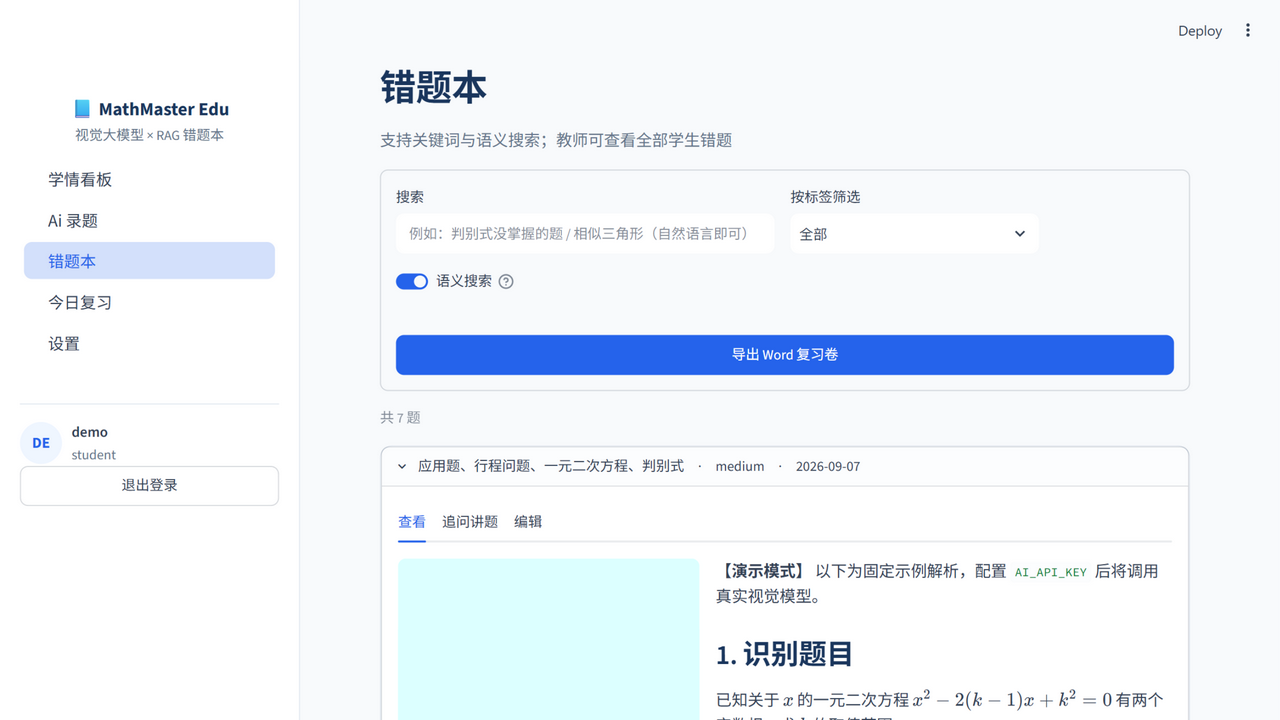
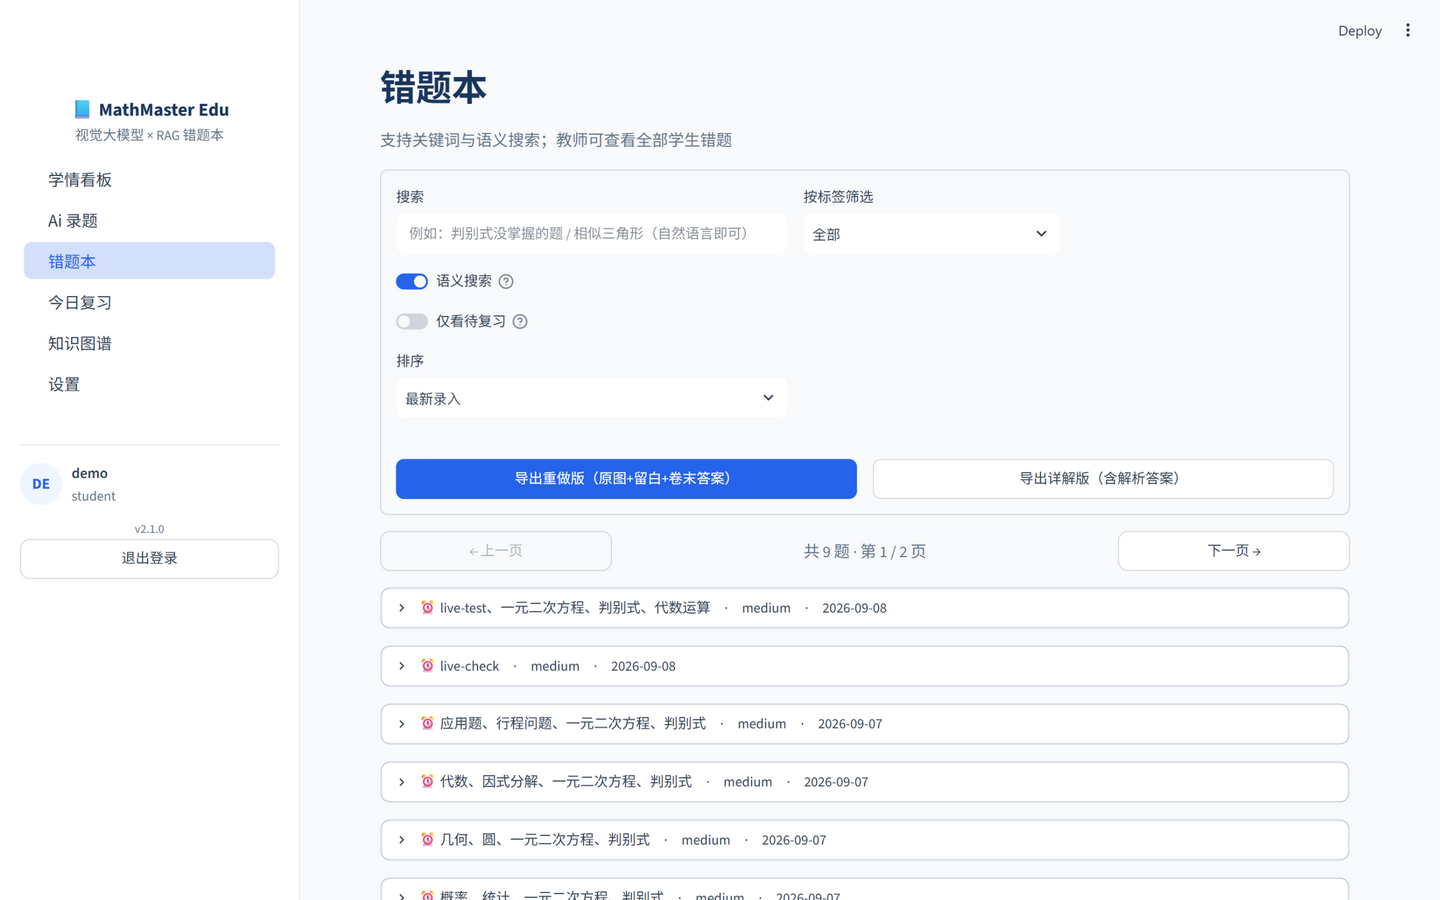
refactor(frontend): migrate 37 deprecated use_container_width usages to width API

diff --git a/frontend/pages/notebook.py b/frontend/pages/notebook.py
@@ -118,7 +118,7 @@ def render_notebook_page(user: dict) -> None:
                     data=redo_io,
                     file_name=f"错题复习卷_重做版_{dt.date.today():%Y%m%d}.docx",
                     mime="application/vnd.openxmlformats-officedocument.wordprocessingml.document",
-                    use_container_width=True,
+                    width="stretch",
                     type="primary",
                     help="只含题目与答题留白，卷末附参考答案，适合打印重做",
                 )
@@ -129,7 +129,7 @@ def render_notebook_page(user: dict) -> None:
                     data=detail_io,
                     file_name=f"错题详解卷_{dt.date.today():%Y%m%d}.docx",
                     mime="application/vnd.openxmlformats-officedocument.wordprocessingml.document",
-                    use_container_width=True,
+                    width="stretch",
                     help="含完整解析、答案与变式练习",
                 )
 
@@ -145,10 +145,10 @@ def render_notebook_page(user: dict) -> None:
         )
         c1, c2 = st.columns(2)
         with c1:
-            if st.button("📸 去 AI 录题", use_container_width=True):
+            if st.button("📸 去 AI 录题", width="stretch"):
                 go_to("tutor")
         with c2:
-            if st.button("清除筛选条件", use_container_width=True):
+            if st.button("清除筛选条件", width="stretch"):
                 st.session_state.pop("notebook_search", None)
                 st.session_state.pop("notebook_tag", None)
                 st.session_state.pop("notebook_page", None)
@@ -167,7 +167,7 @@ def render_notebook_page(user: dict) -> None:
 
     nav_l, nav_c, nav_r = st.columns([1, 2, 1])
     with nav_l:
-        if st.button("← 上一页", disabled=page_index == 0, use_container_width=True):
+        if st.button("← 上一页", disabled=page_index == 0, width="stretch"):
             st.session_state[page_key] -= 1
             st.rerun()
     with nav_c:
@@ -178,7 +178,7 @@ def render_notebook_page(user: dict) -> None:
         )
     with nav_r:
         if st.button(
-            "下一页 →", disabled=page_index >= page_count - 1, use_container_width=True
+            "下一页 →", disabled=page_index >= page_count - 1, width="stretch"
         ):
             st.session_state[page_key] += 1
             st.rerun()
@@ -220,7 +220,7 @@ def render_notebook_page(user: dict) -> None:
                 data=redo_io,
                 file_name="错题精选复习卷_重做版.docx",
                 mime="application/vnd.openxmlformats-officedocument.wordprocessingml.document",
-                use_container_width=True,
+                width="stretch",
             )
             detail_io = generate_word_exam(selected, "错题精选详解卷", mode="detailed")
             st.download_button(
@@ -228,13 +228,13 @@ def render_notebook_page(user: dict) -> None:
                 data=detail_io,
                 file_name="错题精选详解卷.docx",
                 mime="application/vnd.openxmlformats-officedocument.wordprocessingml.document",
-                use_container_width=True,
+                width="stretch",
             )
         with act_col3:
             new_tag = st.text_input(
                 "追加标签", placeholder="例如：月考重点", key="batch_tag"
             )
-            if st.button("为选中追加标签", use_container_width=True) and new_tag.strip():
+            if st.button("为选中追加标签", width="stretch") and new_tag.strip():
                 changed = service.add_tags_to_many(
                     selected_ids, user["id"], sanitize_tags(new_tag)
                 )
@@ -253,7 +253,7 @@ def _render_question_detail(service, q, user) -> None:
         img_col, content_col = st.columns([2, 3])
         with img_col:
             if q.image_path and os.path.exists(q.image_path):
-                st.image(q.image_path, use_container_width=True)
+                st.image(q.image_path, width="stretch")
             else:
                 st.caption("无原图（手动录入）")
             badges = " ".join(f"<span class='mm-badge'>{t}</span>" for t in q.tags)
@@ -280,7 +280,7 @@ def _render_question_detail(service, q, user) -> None:
             _grade_labels = {"again": "😵 忘了", "hard": "😅 勉强", "good": "🙂 记得", "easy": "😎 秒懂"}
             for col, grade in zip(grade_cols, ("again", "hard", "good", "easy"), strict=False):
                 with col:
-                    if st.button(_grade_labels[grade], key=f"nb_grade_{q.id}_{grade}", use_container_width=True):
+                    if st.button(_grade_labels[grade], key=f"nb_grade_{q.id}_{grade}", width="stretch"):
                         updated = service.grade_review(q.id, user["id"], grade)
                         if updated is None:
                             st.toast("只能重测自己的错题", icon="⚠")

diff --git a/frontend/pages/dashboard.py b/frontend/pages/dashboard.py
@@ -58,7 +58,7 @@ def _render_calendar(calendar: dict) -> None:
     )
     fig.update_xaxes(tickangle=0, tickfont=dict(size=9))
     fig.update_yaxes(tickfont=dict(size=9))
-    st.plotly_chart(fig, use_container_width=True, config={"displayModeBar": False})
+    st.plotly_chart(fig, width="stretch", config={"displayModeBar": False})
 
 
 def _render_accuracy_trend(trend: list[dict]) -> None:
@@ -81,7 +81,7 @@ def _render_accuracy_trend(trend: list[dict]) -> None:
         yaxis=dict(range=[0, 105], gridcolor="#e2e8f0"),
         xaxis=dict(showgrid=False),
     )
-    st.plotly_chart(line, use_container_width=True, config={"displayModeBar": False})
+    st.plotly_chart(line, width="stretch", config={"displayModeBar": False})
 
 
 def render_dashboard(user: dict) -> None:
@@ -112,13 +112,13 @@ def render_dashboard(user: dict) -> None:
 
     action_col1, action_col2, action_col3, _ = st.columns([1, 1, 1, 1])
     with action_col1:
-        if st.button("🎬 开始复习", type="primary", use_container_width=True, disabled=stats["due"] == 0):
+        if st.button("🎬 开始复习", type="primary", width="stretch", disabled=stats["due"] == 0):
             go_to("review")
     with action_col2:
-        if st.button("📸 录一道错题", use_container_width=True):
+        if st.button("📸 录一道错题", width="stretch"):
             go_to("tutor")
     with action_col3:
-        if st.button("📒 打开错题本", use_container_width=True):
+        if st.button("📒 打开错题本", width="stretch"):
             go_to("notebook")
 
     st.markdown("<br>", unsafe_allow_html=True)
@@ -149,7 +149,7 @@ def render_dashboard(user: dict) -> None:
             bar_fig.update_yaxes(autorange="reversed")
             event = st.plotly_chart(
                 bar_fig,
-                use_container_width=True,
+                width="stretch",
                 on_select="rerun",
                 key="tag_bar",
                 config={"displayModeBar": False},
@@ -179,7 +179,7 @@ def render_dashboard(user: dict) -> None:
                     """,
                     unsafe_allow_html=True,
                 )
-            if st.button("📚 去错题本复习最薄弱的知识点", use_container_width=True):
+            if st.button("📚 去错题本复习最薄弱的知识点", width="stretch"):
                 go_to("notebook", tag=stats["weak_tags"][0].tag)
         else:
             st.caption("复习几道题后，这里会生成掌握度分析。")
@@ -202,7 +202,7 @@ def render_dashboard(user: dict) -> None:
         xaxis=dict(type="category", showgrid=False),
         yaxis=dict(dtick=1, range=[0, max(3, max(a["count"] for a in activity) + 1)], gridcolor="#e2e8f0"),
     )
-    st.plotly_chart(bar, use_container_width=True, config={"displayModeBar": False})
+    st.plotly_chart(bar, width="stretch", config={"displayModeBar": False})
 
     cal_col, trend_col = st.columns([3, 2])
     with cal_col:

diff --git a/frontend/pages/tutor.py b/frontend/pages/tutor.py
@@ -30,7 +30,7 @@ def render_tutor_page(user: dict) -> None:
                     preview_cols = st.columns(min(len(uploads), 4))
                     for i, upload in enumerate(uploads[:4]):
                         with preview_cols[i]:
-                            st.image(upload.getvalue(), use_container_width=True, caption=upload.name)
+                            st.image(upload.getvalue(), width="stretch", caption=upload.name)
                     if len(uploads) > 4:
                         st.caption(f"已选择 {len(uploads)} 张图片")
             with col_meta:
@@ -41,7 +41,7 @@ def render_tutor_page(user: dict) -> None:
                     height=68,
                 )
 
-            if uploads and st.button("开始 AI 解析", type="primary", use_container_width=True):
+            if uploads and st.button("开始 AI 解析", type="primary", width="stretch"):
                 _process_uploads(service, user, uploads, sanitize_tags(tags_input), hint)
 
     with tab_manual:
@@ -70,7 +70,7 @@ def _render_manual_entry(service, user) -> None:
                 value=False,
                 help="开启后 AI 会分析题目文本，补全答案、标签与考点（留空的字段才会被补全）",
             )
-            submitted = st.form_submit_button("存入错题本", type="primary", use_container_width=True)
+            submitted = st.form_submit_button("存入错题本", type="primary", width="stretch")
         if submitted:
             if not content.strip():
                 st.error("题目与解析不能为空")
@@ -134,7 +134,7 @@ def _process_uploads(service, user, uploads, tags: list[str], hint: str) -> None
 def _render_analysis(saved, analysis, service, user) -> None:
     img_col, content_col = st.columns([2, 3])
     with img_col:
-        st.image(saved.image_path, use_container_width=True)
+        st.image(saved.image_path, width="stretch")
         badges = " ".join(f'<span class="mm-badge">{t}</span>' for t in saved.tags)
         st.markdown(
             f"""<div style="margin-top:0.5rem">

diff --git a/frontend/pages/settings.py b/frontend/pages/settings.py
@@ -102,9 +102,9 @@ def render_settings_page(user: dict) -> None:
                 new_tag = st.text_input("重命名为（留空则不重命名）", placeholder="新标签名")
                 col_r, col_d = st.columns(2)
                 with col_r:
-                    rename_clicked = st.form_submit_button("重命名", use_container_width=True)
+                    rename_clicked = st.form_submit_button("重命名", width="stretch")
                 with col_d:
-                    delete_clicked = st.form_submit_button("删除标签", use_container_width=True)
+                    delete_clicked = st.form_submit_button("删除标签", width="stretch")
             if rename_clicked and new_tag.strip():
                 try:
                     changed = service.rename_tag(user["id"], old_tag, new_tag.strip())
@@ -129,7 +129,7 @@ def render_settings_page(user: dict) -> None:
                 data=json.dumps(backup_data, ensure_ascii=False, indent=2),
                 file_name=f"mathmaster_backup_{datetime.date.today():%Y%m%d}.json",
                 mime="application/json",
-                use_container_width=True,
+                width="stretch",
             )
             csv_data = service.export_user_csv(user["id"])
             st.download_button(
@@ -137,11 +137,11 @@ def render_settings_page(user: dict) -> None:
                 data=csv_data,
                 file_name=f"mathmaster_{datetime.date.today():%Y%m%d}.csv",
                 mime="text/csv",
-                use_container_width=True,
+                width="stretch",
             )
         with col_up:
             upload = st.file_uploader("导入备份", type=["json"], key="backup_import")
-            if upload is not None and st.button("开始导入", use_container_width=True):
+            if upload is not None and st.button("开始导入", width="stretch"):
                 try:
                     payload = json.loads(upload.getvalue().decode("utf-8"))
                     imported = service.import_user_data(user["id"], payload)

diff --git a/frontend/pages/review.py b/frontend/pages/review.py
@@ -71,7 +71,7 @@ def render_review_page(user: dict) -> None:
             days_ago = (dt.datetime.now(dt.timezone.utc) - last).days
             st.caption(f"上次复习：{days_ago} 天前 · 已连续记牢 {question.reps} 次")
         if question.image_path:
-            st.image(question.image_path, use_container_width=False, width=460)
+            st.image(question.image_path, width=460)
         else:
             st.markdown(question.content_markdown[:220], unsafe_allow_html=True)
             st.caption("（手动录入题，请先回忆解法）")
@@ -93,7 +93,7 @@ def render_review_page(user: dict) -> None:
                         ease=question.ease,
                         interval_days=question.interval_days,
                     )
-                    if st.button(_GRADE_LABELS[grade], key=f"grade_{grade}", use_container_width=True):
+                    if st.button(_GRADE_LABELS[grade], key=f"grade_{grade}", width="stretch"):
                         updated = service.grade_review(question.id, user["id"], grade)
                         st.session_state[reveal_key] = False
                         session_stats = st.session_state[session_key]
@@ -111,7 +111,7 @@ def render_review_page(user: dict) -> None:
         else:
             skip_col, _ = st.columns([1, 2])
             with skip_col:
-                if st.button("⏭ 先跳过这道", use_container_width=True):
+                if st.button("⏭ 先跳过这道", width="stretch"):
                     st.session_state[idx_key] = (cursor + 1) % len(due)
                     st.rerun()
 
@@ -134,7 +134,7 @@ def render_review_page(user: dict) -> None:
                 }
                 for h in history
             ]
-            st.dataframe(rows, use_container_width=True, hide_index=True)
+            st.dataframe(rows, width="stretch", hide_index=True)
 
     with st.expander("SM-2 评分说明"):
         st.markdown(

diff --git a/scripts/migrate_width.py b/scripts/migrate_width.py
@@ -1,0 +1,36 @@
+"""A1 迁移：use_container_width → Streamlit 新 width API（一次性脚本）。
+
+规则（依据 Streamlit 1.63 弃用告警）：
+- use_container_width=True  → width="stretch"
+- use_container_width=False → width="content"（若同行已有 width= 则直接删除该参数）
+"""
+import pathlib
+import re
+
+changed_files = []
+for f in pathlib.Path(".").rglob("*.py"):
+    s = str(f)
+    if any(part in s for part in (".venv", "data", "__pycache__", "scripts")):
+        continue
+    src = f.read_text(encoding="utf-8")
+    original = src
+
+    # 已有 width= 的行：先删掉 use_container_width 参数
+    def drop_redundant(match: re.Match) -> str:
+        line = match.group(0)
+        if re.search(r"\bwidth=", line):
+            line = re.sub(r"\s*,?\s*use_container_width=(True|False)", "", line)
+        return line
+
+    src = re.sub(r"^.*use_container_width=(True|False).*$", drop_redundant, src, flags=re.M)
+    # 其余：按布尔值替换
+    src = src.replace("use_container_width=True", 'width="stretch"')
+    src = src.replace("use_container_width=False", 'width="content"')
+
+    if src != original:
+        f.write_text(src, encoding="utf-8")
+        changed_files.append(str(f))
+
+for path in changed_files:
+    print("updated", path)
+print(f"total {len(changed_files)} files")

diff --git a/frontend/pages/auth.py b/frontend/pages/auth.py
@@ -50,7 +50,7 @@ def render_auth_page() -> None:
         with st.form("login_form", clear_on_submit=False):
             username = st.text_input("用户名", placeholder="admin / demo")
             password = st.text_input("密码", type="password")
-            if st.form_submit_button("登录", type="primary", use_container_width=True):
+            if st.form_submit_button("登录", type="primary", width="stretch"):
                 if not username or not password:
                     st.warning("请输入用户名和密码")
                 else:
@@ -69,7 +69,7 @@ def render_auth_page() -> None:
             new_password = st.text_input("密码（至少 6 位）", type="password")
             new_password2 = st.text_input("确认密码", type="password")
             role = st.selectbox("角色", ["student", "teacher"], format_func=lambda v: "学生" if v == "student" else "教师")
-            if st.form_submit_button("创建账号", use_container_width=True):
+            if st.form_submit_button("创建账号", width="stretch"):
                 if new_password != new_password2:
                     st.error("两次输入的密码不一致")
                 else:

diff --git a/frontend/pages/students.py b/frontend/pages/students.py
@@ -78,7 +78,7 @@ def render_students_page(user: dict) -> None:
         }
         for r in rows
     ]
-    st.dataframe(table_data, use_container_width=True, hide_index=True)
+    st.dataframe(table_data, width="stretch", hide_index=True)
 
     st.markdown("<br>", unsafe_allow_html=True)
     page_header("逐个查看", "展开学生查看其知识点掌握情况，或直达其错题本视图")
@@ -90,7 +90,7 @@ def render_students_page(user: dict) -> None:
         with st.expander(f"👤 {r['username']} · {r['total']} 题 · 掌握度 {int(r['mastery'] * 100)}%"):
             col_btn, col_info = st.columns([1, 2])
             with col_btn:
-                if st.button("查看错题本", key=f"view_{r['user_id']}", use_container_width=True):
+                if st.button("查看错题本", key=f"view_{r['user_id']}", width="stretch"):
                     go_to("notebook", student=r["username"])
             with col_info:
                 questions = service.list_questions(r["user_id"], semantic=False)

diff --git a/app.py b/app.py
@@ -92,7 +92,7 @@ def _render_sidebar(user: dict) -> str:
             """,
             unsafe_allow_html=True,
         )
-        if st.button("退出登录", use_container_width=True):
+        if st.button("退出登录", width="stretch"):
             logout_user()
             st.rerun()
     all_pages = {**visible}
